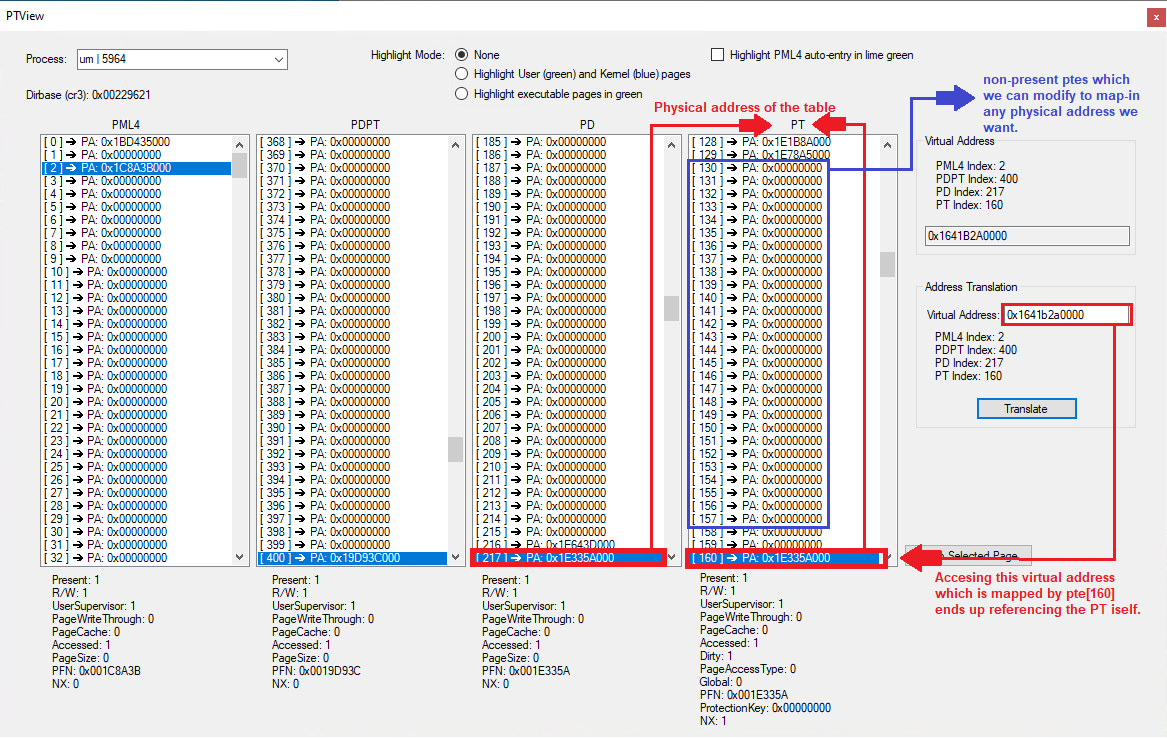
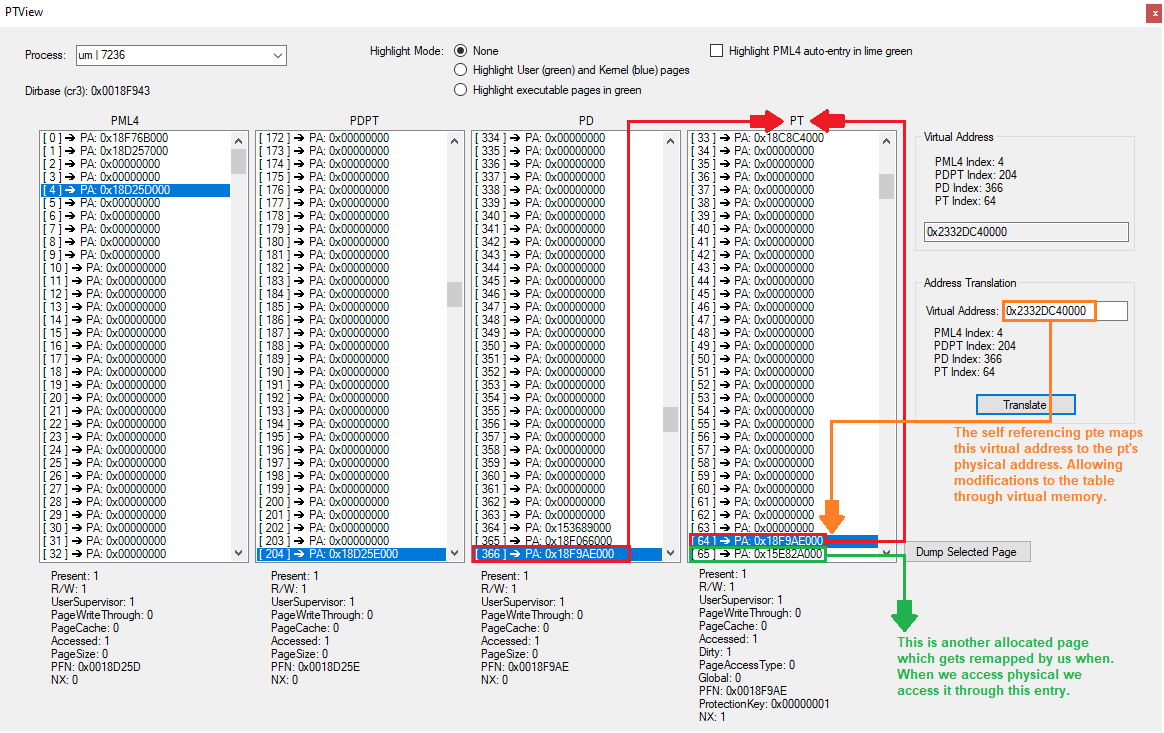
Fixed tlb issues

diff --git a/um/main.cpp b/um/main.cpp
@@ -6,11 +6,11 @@
 #include <Windows.h>
 
 import memory_manager;
+import driver;
 
 // vectord exception handler
 LONG vectored_handler(PEXCEPTION_POINTERS exception) {
-	std::println("Exception caught: {:#x}", exception->ExceptionRecord->ExceptionCode);
-
+	std::println("exception code: {:#x}", exception->ExceptionRecord->ExceptionCode);
 	mm::cleanup();
 	std::cin.get();
 	ExitProcess(1);
@@ -18,35 +18,32 @@ LONG vectored_handler(PEXCEPTION_POINTERS exception) {
 
 int main() {
 	AddVectoredExceptionHandler(1, vectored_handler);
+	driver::initialize();
 
-	HANDLE driver = CreateFileA("\\\\.\\UMPM", GENERIC_READ, 0, nullptr, OPEN_EXISTING, FILE_ATTRIBUTE_NORMAL, nullptr);
+	// reserve a page for the self referencing pte and another page that gets continiously remapped to the target physical address
+	auto allocation = VirtualAlloc(nullptr, 0x2000, MEM_RESERVE, PAGE_NOACCESS);
 
-	if (driver == INVALID_HANDLE_VALUE) {
-		std::println("Failed to open driver handle: {}", std::error_code(GetLastError(), std::system_category()).message());
-		return 1;
-	}
-
-	auto allocation = VirtualAlloc(nullptr, 0x1000, MEM_COMMIT | MEM_RESERVE, PAGE_READWRITE);
-	memset(allocation, 0xFF, 0x1000);
+	allocation = VirtualAlloc(allocation, 0x1000, MEM_COMMIT, PAGE_READWRITE);
+	memset(allocation, -1, 0x1000);
 	if (!VirtualLock(allocation, 0x1000))
 		std::println("failed to lock");
-
 
 	// we place a magic value at the start, necessary for us and the driver
 	*reinterpret_cast<std::uint64_t*>(allocation) = reinterpret_cast<std::uint64_t>(allocation);
 
 	std::uint64_t old_pfn{};
 	DWORD bytes_returned = 0;
-	auto success = DeviceIoControl(driver, static_cast<std::uint32_t>(control_codes::create_recursive_pte), allocation, 0x1000, &old_pfn, sizeof(old_pfn), &bytes_returned, nullptr);
-
+	auto success = driver::io(driver::control_codes::create_recursive_pte, allocation, sizeof(allocation), &old_pfn, sizeof(old_pfn));
 	if (!success) {
 		std::println("{}", std::error_code(GetLastError(), std::system_category()).message());
-		CloseHandle(driver);
 		return 1;
 	}
-	CloseHandle(driver);
 
-	mm::initialize(allocation, old_pfn);
+	if (auto r = mm::initialize(allocation, old_pfn); !r)
+	{
+		std::println("failed to initialize memory manager: {}", std::to_underlying(r.error()));
+		return 1;
+	}
 
 	// Example
 	//mm::map_page(0x1ad000, [](std::uint8_t* va) -> int {
@@ -69,11 +66,10 @@ int main() {
 	//	}
 	//}
 
+	// attempt to find the page tables of our own process
 	mm::process p{
 		.base = reinterpret_cast<std::uint64_t>(GetModuleHandleA(nullptr))
 	};
-
-	std::println("Self: {}", (void*)allocation);
 
 	auto start = std::chrono::high_resolution_clock::now();
 	auto r = p.find_cr3();
@@ -82,7 +78,7 @@ int main() {
 		(end - start),
 		std::chrono::duration_cast<std::chrono::microseconds>(end - start),
 		std::chrono::duration_cast<std::chrono::milliseconds>(end - start));
-
+	
 	if (r) {
 		std::println("found cr3: {:#x}", p.cr3);
 		std::println("{:#x}", p.translate(p.base).value_or(-1));
@@ -90,5 +86,9 @@ int main() {
 	else
 		std::println("failed to find cr3");
 
+	
+	
+
+	std::cin.get();
 	mm::cleanup();
 }

diff --git a/km/main.cpp b/km/main.cpp
@@ -78,8 +78,14 @@ static NTSTATUS dispatch(PDEVICE_OBJECT, PIRP Irp) {
 		*static_cast<std::uint64_t*>(Irp->AssociatedIrp.SystemBuffer) = old_pfn;
 		Irp->IoStatus.Information = sizeof(std::uint64_t);
 
-		// force a tlb flush just incase, alternatively use invlpg on the single entry above
-		__writecr3(__readcr3());
+		// flush the tlb entry for the given virtual address
+		__invlpg(reinterpret_cast<void*>(va.address));
+		break;
+	}
+	case control_codes::invlpg: { // not used, optional for testing environments
+		// force a tlb flush on the given virtual address
+		__invlpg(*static_cast<void**>(Irp->AssociatedIrp.SystemBuffer));
+		status = STATUS_SUCCESS;
 		break;
 	}
 	default: {

diff --git a/shared.h b/shared.h
@@ -19,9 +19,18 @@ namespace std {
 #endif
 
 
-enum class control_codes {
-	create_recursive_pte = CTL_CODE(FILE_DEVICE_UNKNOWN, 999, METHOD_BUFFERED, FILE_SPECIAL_ACCESS)
-};
+#ifndef _KERNEL_MODE
+namespace driver {
+#endif
+
+    enum class control_codes : std::uint32_t {
+        create_recursive_pte = CTL_CODE(FILE_DEVICE_UNKNOWN, 999, METHOD_BUFFERED, FILE_SPECIAL_ACCESS),
+        invlpg = CTL_CODE(FILE_DEVICE_UNKNOWN, 1000, METHOD_BUFFERED, FILE_SPECIAL_ACCESS),
+    };
+
+#ifndef _KERNEL_MODE
+}
+#endif
 
 #pragma warning(disable: 4201)
 union pml4e_t {

diff --git a/README.md b/README.md
@@ -27,7 +27,7 @@ A demonstration highlighting how page tables can be modified from user mode to e
 - Through this pte **the usermode process can access the pt** and modify it's entries to map in any part of physical memory.
 - This ensures that everything besides the initial page table modification, is done in usermode and **doesn't require any kernel interaction**.
 - For cleanup, we can **simply restore the pfn of the pte we initially modified** to be a self referencing entry, this is also **possible from usermode**. The reason it must be restored is because of the windows vmm which will cause a bigcheck in the case of our illegal mappings.
-- You may come across issues regarding the tlb when using the same pte to map different parts of memory, to avoid this a simple and hopefully temporary fix is to use a random pte index.
+- Tlb flushes are necessary when modifying page tables but not possible from usermode. Instead we ask the os to **flush the entries that we modified through `VirtualProtect`** and ensure the cpu never caches it. 
 
 This is how the page tables look after adding the self referencing pte:
 ![PTView](assets/ptview.png)
